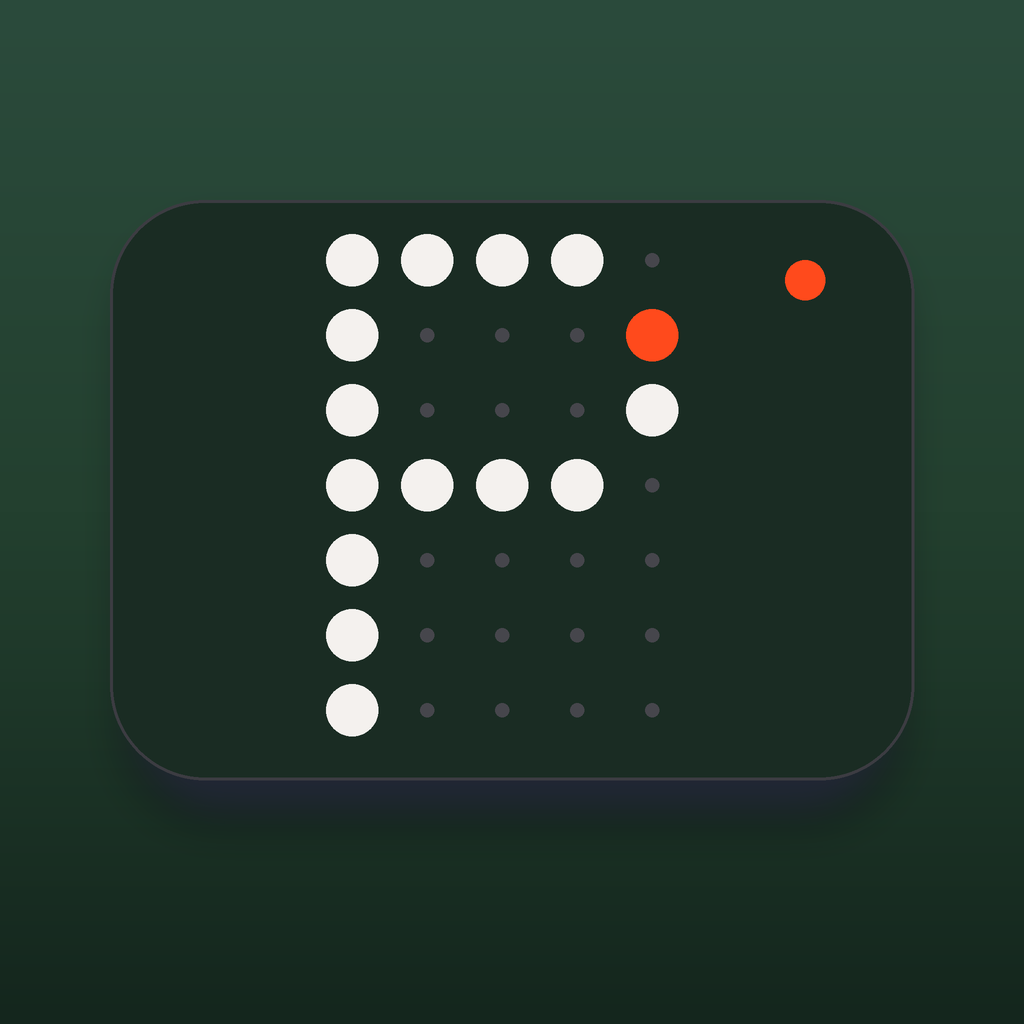
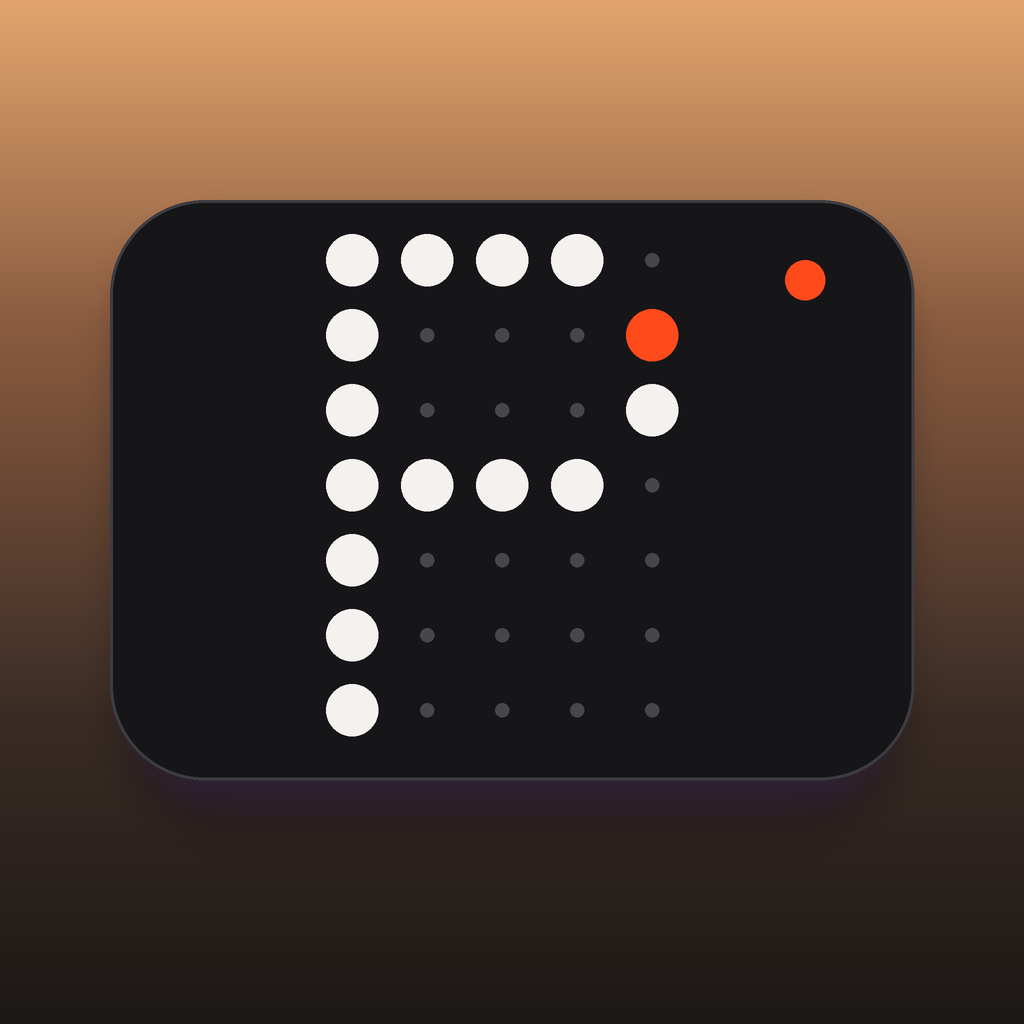
Changed background color

diff --git a/lib/widgets/theme.dart b/lib/widgets/theme.dart
@@ -2,13 +2,13 @@ import 'package:flutter/cupertino.dart';
 import 'package:google_fonts/google_fonts.dart';
 
 const kAccent = Color(0xFFFF4A1C);
-const kTile = Color(0xFF1A2C23);
-const kTileHi = Color(0xFF254036);
+const kTile = Color(0xFF161618);
+const kTileHi = Color(0xFF212125);
 const kInk = Color(0xFFF4F1EE);
 const kMuted = Color(0xFF8C8C94);
 /// Text colour for content drawn directly on the pastel background.
-const kOnBg = Color(0xFFE8F0E2);
-const kOnBgSoft = Color(0xB8E8F0E2);
+const kOnBg = Color(0xFFFFF3E8);
+const kOnBgSoft = Color(0xCCFFF3E8);
 const kLine = Color(0x1AFFFFFF);
 
 /// Dot-matrix display face (falls back to a mono face if unavailable).

diff --git a/lib/widgets/common.dart b/lib/widgets/common.dart
@@ -24,11 +24,12 @@ class PocketBackground extends StatelessWidget {
           gradient: LinearGradient(
             begin: Alignment.topCenter,
             end: Alignment.bottomCenter,
-            stops: [0.0, 0.45, 1.0],
+            stops: [0.0, 0.32, 0.7, 1.0],
             colors: [
-              Color(0xFF2B4B3C), // forest
-              Color(0xFF23402F), // deep sage
-              Color(0xFF14261D), // near-black green
+              Color(0xFFE2A56E),
+              Color(0xFF8A5B3F),
+              Color(0xFF3A2C25),
+              Color(0xFF1C1816),
             ],
           ),
         ),

diff --git a/tool/make_icon.py b/tool/make_icon.py
@@ -5,12 +5,16 @@ from PIL import Image, ImageDraw, ImageFilter
 S = 2048  # supersampled canvas, downscaled to 1024
 
 def gradient():
-    top, mid, bot = (43, 75, 60), (35, 64, 47), (20, 38, 29)
+    stops = [(0.0, (226, 165, 110)), (0.32, (138, 91, 63)), (0.7, (58, 44, 37)), (1.0, (28, 24, 22))]
     img = Image.new("RGB", (S, S))
     px = img.load()
     for y in range(S):
         t = y / (S - 1)
-        a, b, k = (top, mid, t * 2) if t < 0.5 else (mid, bot, (t - 0.5) * 2)
+        for i in range(len(stops) - 1):
+            if stops[i][0] <= t <= stops[i + 1][0]:
+                a, b = stops[i][1], stops[i + 1][1]
+                k = (t - stops[i][0]) / (stops[i + 1][0] - stops[i][0])
+                break
         c = tuple(int(a[i] + (b[i] - a[i]) * k) for i in range(3))
         for x in range(S):
             px[x, y] = c
@@ -25,7 +29,7 @@ def build():
     img.paste(sh, (0, 0), sh)
     d = ImageDraw.Draw(img)
     # dark card
-    d.rounded_rectangle((220, 400, 1828, 1560), 190, fill=(26, 44, 35))
+    d.rounded_rectangle((220, 400, 1828, 1560), 190, fill=(22, 22, 24))
     d.rounded_rectangle((220, 400, 1828, 1560), 190, outline=(60, 60, 66), width=6)
     # dot-matrix "P"
     P = ["1111.",
